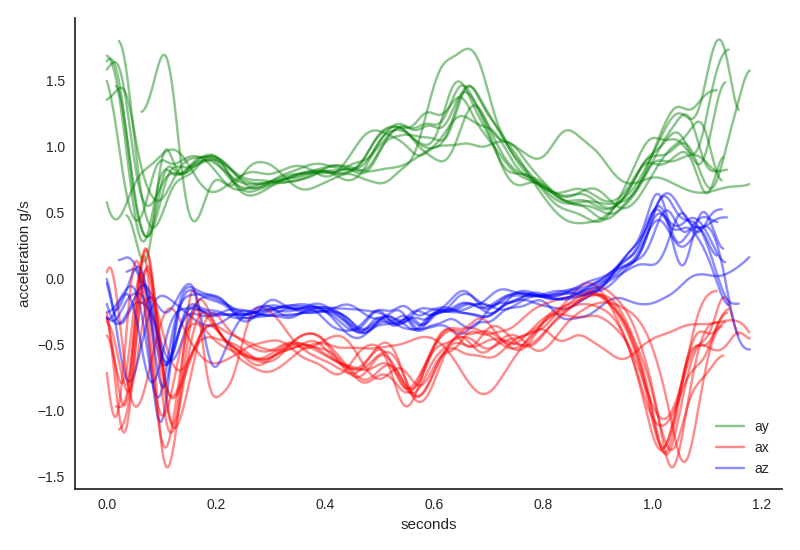
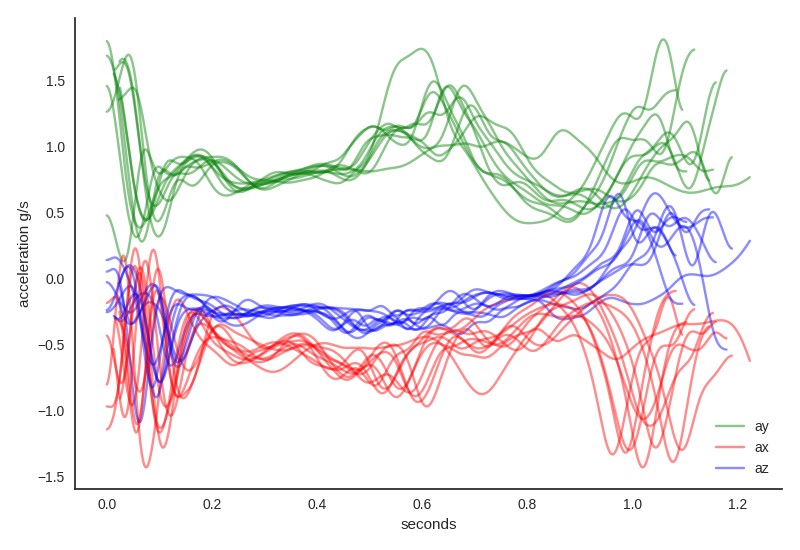
Refactored shift code to own function

diff --git a/align_data.py b/align_data.py
@@ -16,36 +16,58 @@ tn = 2000
 time = np.linspace(0,1.2,tn)
 dt = time[1]-time[0]
 
+directions = ['ax','ay','az']
+
 with h5py.File(f_save) as h5:
     g = h5[device_idx]
     for i in g:
         t = g[i]['t'][:]
         data[int(i)] = {'t':time}
 
-        for key in ['ax','ay','az']:
+        for key in directions:
             x = g[i][key][:]
             f = interp1d(t, x, fill_value=0.0, bounds_error=False)
-            data[int(i)][key] = f(time)
+            data[int(i)][key] = f
 
+
+def find_average_shift(data, key, offset=None):
+
+    N = len(data)
+
+    if offset is None:
+        offset = np.zeros(N)
+
+    shift = np.zeros(N)
+        
+    for i in data:
+
+        shift_val = np.zeros(N)
+        shift_weight = np.zeros(N)
+        for j in data:
+            if i == j: continue
+            x1 = data[i][key](time+offset[i]*dt)
+            x2 = data[j][key](time+offset[j]*dt)
             
-S = []
-for i in data:
+            c  = np.correlate(x2, x1, 'full')
+            idx = c.argmax()
+            shift_val[j] = idx - tn
+            shift_weight[j] = c[idx]
+            #print i,j, idx - tn, c[idx]
 
-    shift_val = []
-    shift_weight = []
-    for j in data:
-        if i == j: continue
-        x1 = data[i]['ax']
-        x2 = data[j]['ax']
-        c  = np.correlate(x2, x1, 'full')
-        idx = c.argmax()
-        shift_val.append(idx - tn)
-        shift_weight.append(c[idx])
-        #print i,j, idx - tn, c[idx]
+        if shift_weight.sum()==0:
+            shift_weight += 1
 
-    shift = int(np.average(shift_val, weights=shift_weight))
-    print i, shift
-    S.append(shift)
+        shift[i] = int(np.average(shift_val, weights=shift_weight))
+        #print i, key, shift[i]
+    return shift
+
+
+shift = np.median([find_average_shift(data, k) for k in directions],axis=0)
+
+#for _ in range(5):
+#    shift = np.median([find_average_shift(data, k, shift) for k in directions],axis=0)
+#    print np.abs(shift).sum(), shift
+print shift
 
 color_keys = {'ax':'r','ay':'g','az':'b'}
 
@@ -53,8 +75,9 @@ for i in data:
     for name in color_keys:
         label = name if i==0 else None
 
-        y = data[i][name]
-        x = time+dt*S[i]
+        x = time - dt*shift[i]
+        y = data[i][name](x)
+        
 
         y[x<0] = None
         y[y==0] = None
